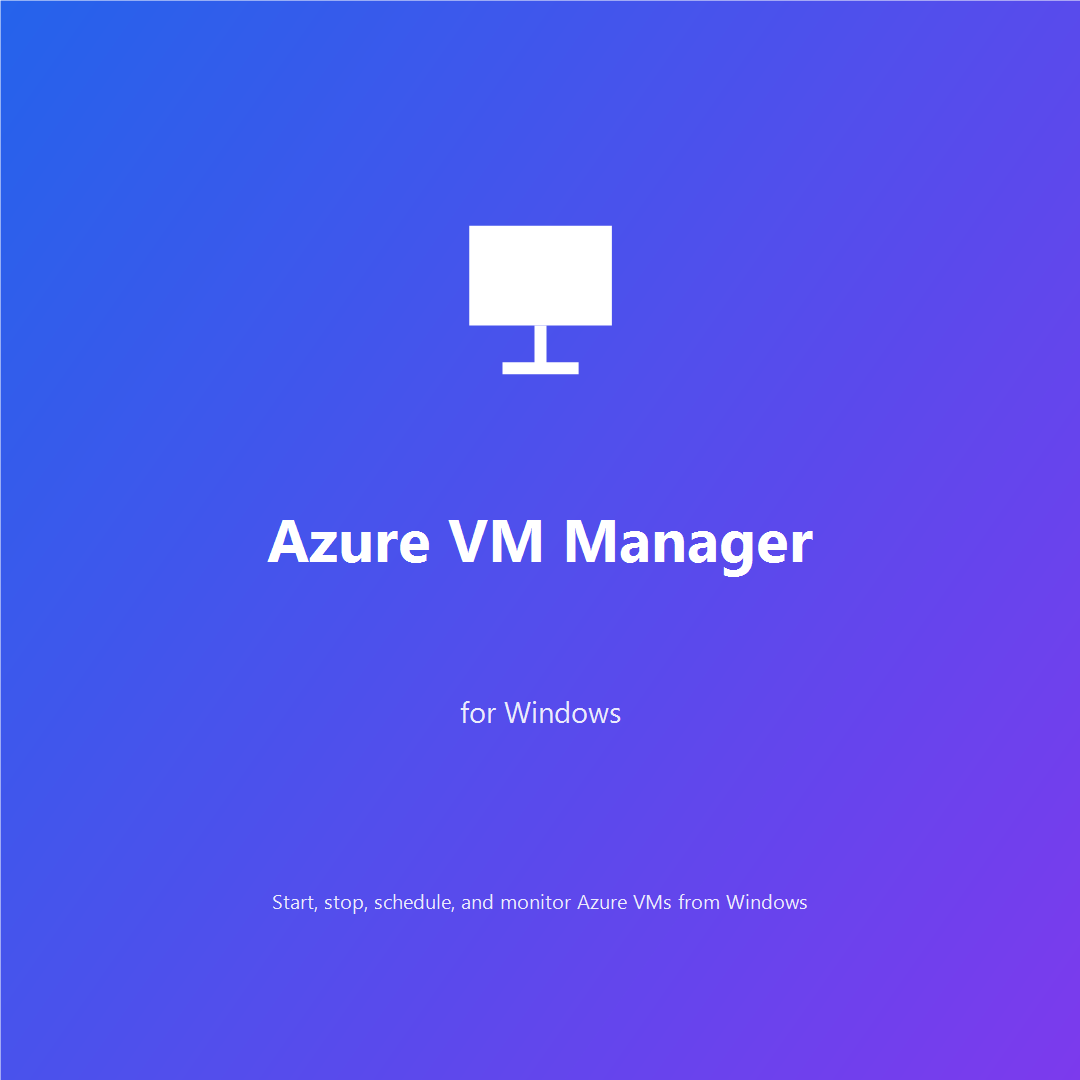
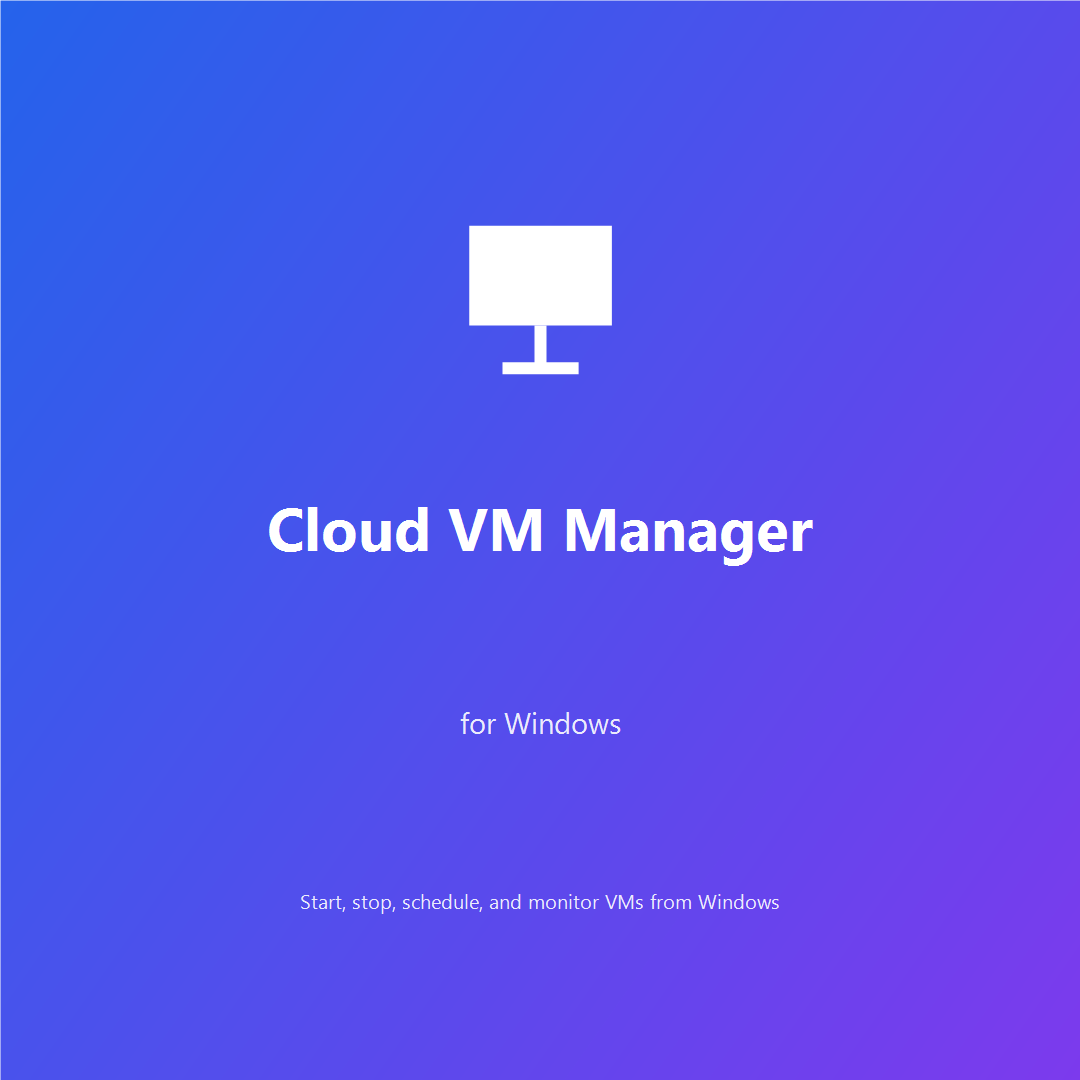
Address Microsoft Store naming policy

Changed region(s): [[0.2444, 0.4583, 0.7639, 0.55], [0.2444, 0.825, 0.7333, 0.8556], [0.4278, 0.6417, 0.5806, 0.7028]]

diff --git a/VMAzureApp/MainWindow.xaml b/VMAzureApp/MainWindow.xaml
@@ -4,7 +4,7 @@
         xmlns:d="http://schemas.microsoft.com/expression/blend/2008"
         xmlns:mc="http://schemas.openxmlformats.org/markup-compatibility/2006"
         mc:Ignorable="d"
-        Title="Azure VM Manager" Height="650" Width="1100"
+        Title="Cloud VM Manager" Height="650" Width="1100"
         MinHeight="520" MinWidth="900"
         WindowStartupLocation="CenterScreen"
         Background="#F4F7FB"
@@ -112,7 +112,7 @@
 
         <DockPanel Grid.Row="0" LastChildFill="False" Margin="0,0,0,16">
             <StackPanel DockPanel.Dock="Left">
-                <TextBlock Text="Azure VM Manager" FontSize="30" FontWeight="Bold" Foreground="#0F172A" />
+                <TextBlock Text="Cloud VM Manager" FontSize="30" FontWeight="Bold" Foreground="#0F172A" />
                 <TextBlock Text="Manage virtual machines across subscriptions without opening the Azure portal."
                            Foreground="#64748B"
                            FontSize="14"

diff --git a/VMAzureApp/Services/SystemTrayService.cs b/VMAzureApp/Services/SystemTrayService.cs
@@ -26,7 +26,7 @@ public sealed class SystemTrayService : IDisposable
         {
             ContextMenuStrip = _contextMenu,
             Icon = LoadTrayIcon(),
-            Text = "Azure VM Manager",
+            Text = "Cloud VM Manager",
             Visible = true
         };
 
@@ -39,7 +39,7 @@ public sealed class SystemTrayService : IDisposable
     {
         _notifyIcon.ShowBalloonTip(
             2500,
-            "Azure VM Manager is still running",
+            "Cloud VM Manager is still running",
             "Use the tray icon to open the app or manage loaded VMs.",
             Forms.ToolTipIcon.Info);
     }
@@ -61,7 +61,7 @@ public sealed class SystemTrayService : IDisposable
     {
         _contextMenu.Items.Clear();
 
-        _contextMenu.Items.Add(CreateMenuItem("Open Azure VM Manager", (_, _) => Dispatch(ShowMainWindow)));
+        _contextMenu.Items.Add(CreateMenuItem("Open Cloud VM Manager", (_, _) => Dispatch(ShowMainWindow)));
         _contextMenu.Items.Add(CreateMenuItem(
             "Refresh VMs",
             (_, _) => Dispatch(() => _viewModel.RefreshCommand.Execute(null)),

diff --git a/docs/microsoft-store-listing-en-us.md b/docs/microsoft-store-listing-en-us.md
@@ -1,19 +1,19 @@
-# Azure VM Manager for Windows | Store listing - English (United States)
+# Cloud VM Manager for Windows | Store listing - English (United States)
 
 ## Product name
 
-Azure VM Manager for Windows
+Cloud VM Manager for Windows
 
 ## Description
 
-Azure VM Manager for Windows is a desktop application that helps Azure administrators, cloud engineers, developers, and IT professionals manage Azure virtual machines directly from Windows.
+Cloud VM Manager for Windows is a desktop application that helps cloud administrators, cloud engineers, developers, and IT professionals manage virtual machines directly from Windows.
 
-The app provides a simple Windows desktop experience for viewing and operating virtual machines across Azure subscriptions without opening the Azure portal.
+The app provides a simple Windows desktop experience for viewing and operating virtual machines across cloud subscriptions without opening a web portal.
 
 Features include:
 
-- Sign in with your Microsoft Azure account
-- View accessible Azure subscriptions and virtual machines
+- Sign in with your cloud account
+- View accessible subscriptions and virtual machines
 - See VM power state and important VM details
 - Start virtual machines
 - Stop and deallocate virtual machines to help reduce compute costs
@@ -23,7 +23,7 @@ Features include:
 - Use a modern Windows desktop interface
 - Authenticate securely through Microsoft identity services
 
-Azure VM Manager for Windows does not store Azure credentials. Authentication is handled through Microsoft identity services, and all Azure operations depend on the permissions granted to the signed-in Azure account.
+Cloud VM Manager for Windows does not store cloud credentials. Authentication is handled through Microsoft identity services, and all resource operations depend on the permissions granted to the signed-in account.
 
 Local schedules run only while the app is open or running in the system tray.
 
@@ -31,12 +31,12 @@ Local schedules run only while the app is open or running in the system tray.
 
 Initial Microsoft Store submission.
 
-This version includes Azure sign-in, subscription and VM listing, VM start and stop/deallocate actions, local VM schedules, system tray integration, VM details, and MSIX packaging.
+This version includes sign-in, subscription and VM listing, VM start and stop/deallocate actions, local VM schedules, system tray integration, VM details, and MSIX packaging.
 
 ## Product features
 
-- Sign in with your Microsoft Azure account
-- View Azure subscriptions and virtual machines
+- Sign in with your cloud account
+- View subscriptions and virtual machines
 - Start virtual machines from Windows
 - Stop and deallocate virtual machines
 - Schedule VM start and stop/deallocate actions
@@ -68,29 +68,29 @@ Generated assets:
 
 ## Short title
 
-Azure VM Manager
+Cloud VM Manager
 
 ## Voice title
 
-Azure VM Manager
+Cloud VM Manager
 
 ## Short description
 
-Manage Azure virtual machines from Windows. Sign in with your Azure account, view VMs across subscriptions, start or stop/deallocate machines, create local schedules, and access quick actions from the system tray.
+Manage cloud virtual machines from Windows. Sign in, view VMs across subscriptions, start or stop/deallocate machines, create local schedules, and access quick actions from the system tray.
 
 ## Keywords
 
-- Azure VM
 - virtual machines
 - cloud management
-- Azure desktop
 - VM scheduler
 - system tray
-- Azure admin
+- cloud admin
+- desktop tools
+- compute manager
 
 ## Copyright and trademark info
 
-Copyright (c) 2026 Pablito Piova. Azure and Microsoft are trademarks of Microsoft Corporation.
+Copyright (c) 2026 Pablito Piova. Microsoft and related service names are trademarks of Microsoft Corporation.
 
 ## Additional license terms
 
@@ -102,4 +102,4 @@ Pablito Piova
 
 ## Notes for certification
 
-This app uses the `runFullTrust` capability because it is a packaged Windows desktop application built with WPF. It uses full trust to run as a standard desktop application, provide a system tray icon, and interact with the local user session. Azure access is performed through Microsoft identity services and Azure SDK APIs using the signed-in user's permissions.
+This app uses the `runFullTrust` capability because it is a packaged desktop application built with WPF. It uses full trust to run as a standard desktop application, provide a system tray icon, and interact with the local user session. Cloud resource access is performed through Microsoft identity services and SDK APIs using the signed-in user's permissions.

diff --git a/README.md b/README.md
@@ -1,10 +1,10 @@
-# Azure VM Manager
+# Cloud VM Manager
 
-Azure VM Manager is a Windows desktop app for managing Azure virtual machines across subscriptions without opening the Azure portal.
+Cloud VM Manager is a Windows desktop app for managing Azure virtual machines across subscriptions without opening the Azure portal.
 
 ## Preview
 
-![Azure VM Manager preview](docs/screenshot.png)
+![Cloud VM Manager preview](docs/screenshot.png)
 
 ## Features
 
